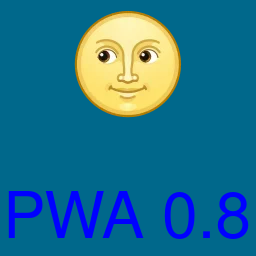
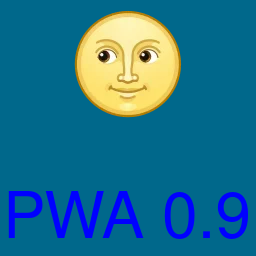
ver. 0.9

Changed region(s): [[0.8438, 0.75, 0.9688, 0.9375]]

diff --git a/app.html b/app.html
@@ -6,6 +6,6 @@
     <link rel="manifest" href="manifest.json" />
   </head>
   <body style="background: deepskyblue;">
-    <p>App page ver. 0.8</p>
+    <p>App page ver. 0.9</p>
   </body>
 </html>
